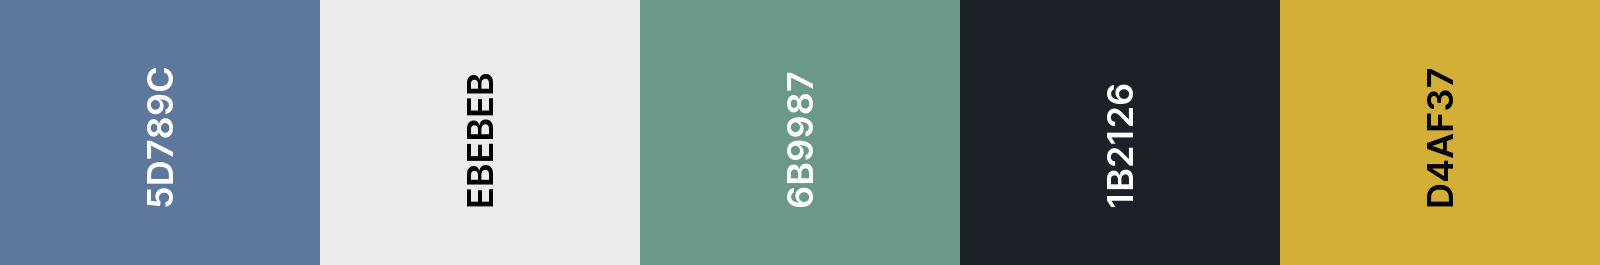
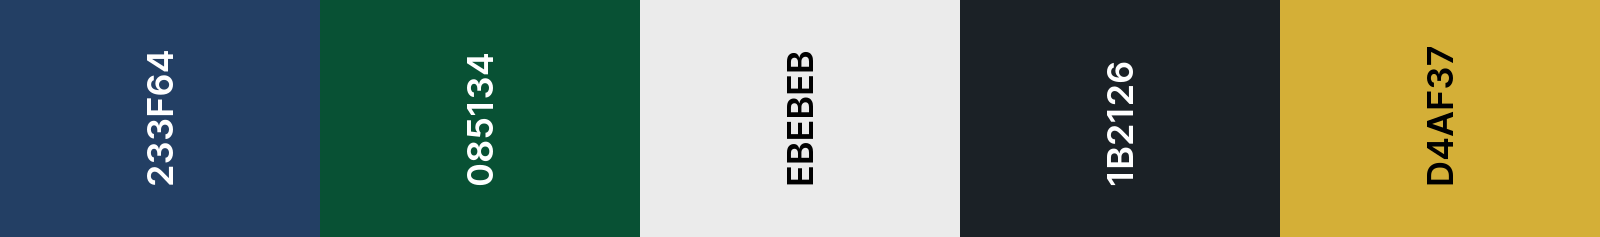
HTML: begin basic layout for recordings and enquiries pages

diff --git a/recordings.html b/recordings.html
@@ -1,0 +1,109 @@
+<!DOCTYPE html>
+<html lang="en">
+<head>
+    <meta charset="UTF-8">
+    <meta name="viewport" content="width=device-width, initial-scale=1.0">
+    <title>Duo Teithio</title>
+    <!-- Bootstrap CSS Link -->
+    <link href="https://cdn.jsdelivr.net/npm/bootstrap@5.3.3/dist/css/bootstrap.min.css" rel="stylesheet" 
+        integrity="sha384-QWTKZyjpPEjISv5WaRU9OFeRpok6YctnYmDr5pNlyT2bRjXh0JMhjY6hW+ALEwIH" crossorigin="anonymous">
+    <!-- Custom CSS stylesheet -->
+    <link  rel="stylesheet" href="./assets/css/style.css">
+    <!-- Fontawesome icons import link -->
+    <script src="https://kit.fontawesome.com/20f98696e8.js" crossorigin="anonymous"></script>
+</head>
+<body>
+    <header>
+        <!-- Bootstrap Nav Bar -->
+        <nav class="navbar navbar-expand-lg bg-body-tertiary fixed-top">
+            <div class="container align-items-center">
+                <a class="navbar-brand" href="index.html">Duo Teithio</a>
+                <button class="navbar-toggler" type="button" data-bs-toggle="collapse" data-bs-target="#navbarNav" aria-controls="navbarNav" aria-expanded="false" aria-label="Toggle navigation">
+                    <span class="navbar-toggler-icon"></span>
+                </button>
+                <div class="collapse navbar-collapse" id="navbarNav">
+                    <ul class="navbar-nav ms-auto">
+                    <li class="nav-item">
+                        <a class="nav-link" aria-current="page" href="index.html">Home</a>
+                    </li>
+                    <li class="nav-item">
+                        <a class="nav-link active" href="recordings.html">Recordings</a>
+                    </li>
+                    <li class="nav-item">
+                        <a class="nav-link" href="enquiries.html">Booking Enquiries</a>
+                    </li>
+                    </ul>
+                </div>
+            </div>
+        </nav>
+    </header>
+
+    <section id="recordings_title" class="container-fluid top_element mb-4">
+        <div class="text-center">
+            <h2 class="display-5">Hear us Perform</h2>
+        </div>
+    </section>
+    <section id="recordings" class="container">
+        <div class="row d-flex">
+            <div class="col-12 col-md-6 justify-content-center">
+                <video width="320px" height="240px" controls>
+                    <source src="assets/videos/ballade.mp4" type="video/mp4">
+                    Your browser does not support the use of videos.
+                </video>
+            </div>
+            <div class="col-12 col-md-6 justify-content-center">
+                <p>
+                    a paragraph
+                </p>
+            </div>
+            <div class="col-12 col-md-6 justify-content-center">
+                <video width="320px" height="240px" controls>
+                    <source src="assets/videos/bring_him_home.mp4" type="video/mp4">
+                    Your browser does not support the use of videos.
+                </video>
+            </div>
+            <div class="col-12 col-md-6 justify-content-center">
+                <video width="320px" height="240px" controls>
+                    <source src="assets/videos/canzonetta.mp4" type="video/mp4">
+                    Your browser does not support the use of videos.
+                </video>
+            </div>         
+        </div>
+    </section>
+
+    <!-- Footer -->
+    <footer class="footer d-flex align-items-center mt-5">
+        <div class="container-fluid">
+            <div class="row justify-content-center">
+                <!-- Social media icons -->
+                <div class="col-12 text-center">
+                    <ul>
+                        <li>
+                            <a href="https://www.instagram.com/duo_teithio/" target="_blank" class="me-4">
+                                <i class="fa-brands fa-instagram fa-xl" aria-hidden="true"></i>
+                                <span class="d-none">Instagram</span>
+                            </a>
+                        </li>
+                        <li>
+                            <a href="https://facebook.com" target="_blank" class="me-4">
+                                <i class="fa-brands fa-facebook fa-xl" aria-hidden="true"></i>
+                                <span class="d-none">Facebook</span>
+                            </a>
+                        </li>
+                        <li>
+                            <a href="https://www.youtube.com/@DuoTeithio" target="_blank">
+                                <i class="fa-brands fa-youtube fa-xl" aria-hidden="true"></i>
+                                <span class="d-none">YouTube</span>
+                            </a>
+                        </li>
+                    </ul>
+                </div>
+            </div>
+        </div>
+    </footer>
+
+    <!-- Bootstrap JS script -->
+    <script src="https://cdn.jsdelivr.net/npm/bootstrap@5.3.3/dist/js/bootstrap.bundle.min.js" 
+    integrity="sha384-YvpcrYf0tY3lHB60NNkmXc5s9fDVZLESaAA55NDzOxhy9GkcIdslK1eN7N6jIeHz" crossorigin="anonymous"></script>
+</body>
+</html>

diff --git a/enquiries.html b/enquiries.html
@@ -1,0 +1,76 @@
+<!DOCTYPE html>
+<html lang="en">
+<head>
+    <meta charset="UTF-8">
+    <meta name="viewport" content="width=device-width, initial-scale=1.0">
+    <title>Duo Teithio</title>
+    <!-- Bootstrap CSS Link -->
+    <link href="https://cdn.jsdelivr.net/npm/bootstrap@5.3.3/dist/css/bootstrap.min.css" rel="stylesheet" 
+        integrity="sha384-QWTKZyjpPEjISv5WaRU9OFeRpok6YctnYmDr5pNlyT2bRjXh0JMhjY6hW+ALEwIH" crossorigin="anonymous">
+    <!-- Custom CSS stylesheet -->
+    <link  rel="stylesheet" href="./assets/css/style.css">
+    <!-- Fontawesome icons import link -->
+    <script src="https://kit.fontawesome.com/20f98696e8.js" crossorigin="anonymous"></script>
+</head>
+<body>
+    <header>
+        <!-- Bootstrap Nav Bar -->
+        <nav class="navbar navbar-expand-lg bg-body-tertiary fixed-top">
+            <div class="container align-items-center">
+                <a class="navbar-brand" href="index.html">Duo Teithio</a>
+                <button class="navbar-toggler" type="button" data-bs-toggle="collapse" data-bs-target="#navbarNav" aria-controls="navbarNav" aria-expanded="false" aria-label="Toggle navigation">
+                    <span class="navbar-toggler-icon"></span>
+                </button>
+                <div class="collapse navbar-collapse" id="navbarNav">
+                    <ul class="navbar-nav ms-auto">
+                    <li class="nav-item">
+                        <a class="nav-link" aria-current="page" href="index.html">Home</a>
+                    </li>
+                    <li class="nav-item">
+                        <a class="nav-link" href="recordings.html">Recordings</a>
+                    </li>
+                    <li class="nav-item">
+                        <a class="nav-link active" href="enquiries.html">Booking Enquiries</a>
+                    </li>
+                    </ul>
+                </div>
+            </div>
+        </nav>
+    </header>
+
+    <!-- Footer -->
+    <footer class="footer d-flex align-items-center mt-5">
+        <div class="container-fluid">
+            <div class="row justify-content-center">
+                <!-- Social media icons -->
+                <div class="col-12 text-center">
+                    <ul>
+                        <li>
+                            <a href="https://www.instagram.com/duo_teithio/" target="_blank" class="me-4">
+                                <i class="fa-brands fa-instagram fa-xl" aria-hidden="true"></i>
+                                <span class="d-none">Instagram</span>
+                            </a>
+                        </li>
+                        <li>
+                            <a href="https://facebook.com" target="_blank" class="me-4">
+                                <i class="fa-brands fa-facebook fa-xl" aria-hidden="true"></i>
+                                <span class="d-none">Facebook</span>
+                            </a>
+                        </li>
+                        <li>
+                            <a href="https://www.youtube.com/@DuoTeithio" target="_blank">
+                                <i class="fa-brands fa-youtube fa-xl" aria-hidden="true"></i>
+                                <span class="d-none">YouTube</span>
+                            </a>
+                        </li>
+                    </ul>
+                </div>
+            </div>
+        </div>
+    </footer>
+
+    <!-- Bootstrap JS script -->
+    <script src="https://cdn.jsdelivr.net/npm/bootstrap@5.3.3/dist/js/bootstrap.bundle.min.js" 
+    integrity="sha384-YvpcrYf0tY3lHB60NNkmXc5s9fDVZLESaAA55NDzOxhy9GkcIdslK1eN7N6jIeHz" crossorigin="anonymous"></script>
+</body>
+</html>

diff --git a/index.html b/index.html
@@ -39,7 +39,7 @@
     </header>
 
     <!-- Hero Image -->
-    <img id="hero" class="mb-3" src="assets/images/hero_image.jpg" alt="The members of Duo Teithio">
+    <img id="hero" class="mb-3 top_element" src="assets/images/hero_image.jpg" alt="The members of Duo Teithio">
     
     <!-- Biography section -->
     <section id="biography" class="container mb-3">
@@ -146,25 +146,28 @@
     </section>
 
     <!-- Footer -->
-    <footer class="footer d-flex align-items-center">
+    <footer class="footer d-flex align-items-center mt-5">
         <div class="container-fluid">
             <div class="row justify-content-center">
                 <!-- Social media icons -->
                 <div class="col-12 text-center">
                     <ul>
                         <li>
-                            <a href="https://intsagram.com" target="_blank" class="me-4">
-                                <i class="fa-brands fa-instagram fa-xl"></i>
+                            <a href="https://www.instagram.com/duo_teithio/" target="_blank" class="me-4">
+                                <i class="fa-brands fa-instagram fa-xl" aria-hidden="true"></i>
+                                <span class="d-none">Instagram</span>
                             </a>
                         </li>
                         <li>
                             <a href="https://facebook.com" target="_blank" class="me-4">
-                                <i class="fa-brands fa-facebook fa-xl"></i>
+                                <i class="fa-brands fa-facebook fa-xl" aria-hidden="true"></i>
+                                <span class="d-none">Facebook</span>
                             </a>
                         </li>
                         <li>
-                            <a href="https://youtube.com" target="_blank">
-                                <i class="fa-brands fa-youtube fa-xl"></i>
+                            <a href="https://www.youtube.com/@DuoTeithio" target="_blank">
+                                <i class="fa-brands fa-youtube fa-xl" aria-hidden="true"></i>
+                                <span class="d-none">YouTube</span>
                             </a>
                         </li>
                     </ul>

diff --git a/assets/css/style.css b/assets/css/style.css
@@ -14,6 +14,10 @@ body {
     font-family: "montserrat", sans-serif;
 }
 
+.top_element {
+    margin-top: 74px; /* Moving top element on page down by height of navbar*/
+}
+
 /* Nav bar */
 /* Increasing size of title */
 .navbar {
@@ -35,7 +39,6 @@ which page the user is viewing */
 
 /* Hero image  */
 #hero {
-    margin-top: 74px; /* Moving image down by height of navbar*/
     max-width: 100%;
     height: auto;
 }
@@ -47,7 +50,7 @@ which page the user is viewing */
 
 /* Events section */
 #events_title {
-    background-color: #5D789C;
+    background-color: #085134;
     padding: 15px;
     color: #EBEBEB;
 }
@@ -61,7 +64,7 @@ which page the user is viewing */
 #contact {
     background-image: linear-gradient(to right, rgba(0, 0, 0, 0.6), rgba(0, 0, 0, 0)), url("../images/sheet_music.jpg"); /* Background image from Pexels */
     background-size: cover;
-    background-position: 50% 70%;
+    background-position: 50% 50%;
     padding: 2% 5%;
     min-height: 150px;
 }
@@ -102,6 +105,20 @@ which page the user is viewing */
     color: #D4AF37;
 }
 
+/* Recordings page */
+#recordings_title {
+    background-image: url(../images/recordings_image.jpg);
+    background-size: cover;
+    background-position: 50% 50%;
+    padding: 2% 5%;
+    min-height: 200px;
+    color: #EBEBEB;
+}
+
+#recordings_title h2 {
+    padding: 100px 0;
+}
+
 /* Media queries */
 /* Making card lengths uniform in events section at various screen sizes*/
 @media only screen and (max-width: 1400px) {
@@ -123,7 +140,7 @@ which page the user is viewing */
 }
 
 /* Changing gradient direction since text is on top at this screen size */
-@media only screen and (max-width: 500px) {
+@media only screen and (max-width: 767px) {
     #contact {
         background-image: linear-gradient(rgba(0, 0, 0, 0.6), rgba(0, 0, 0, 0)), url("../images/sheet_music.jpg"); /* Background image from Pexels */
     }
